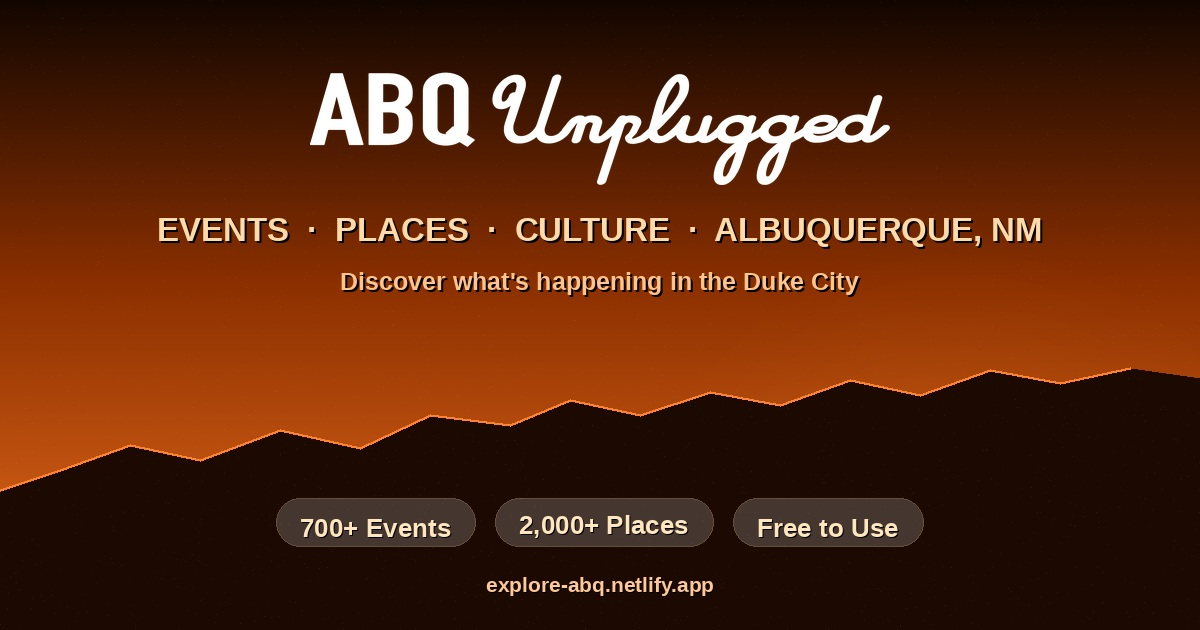
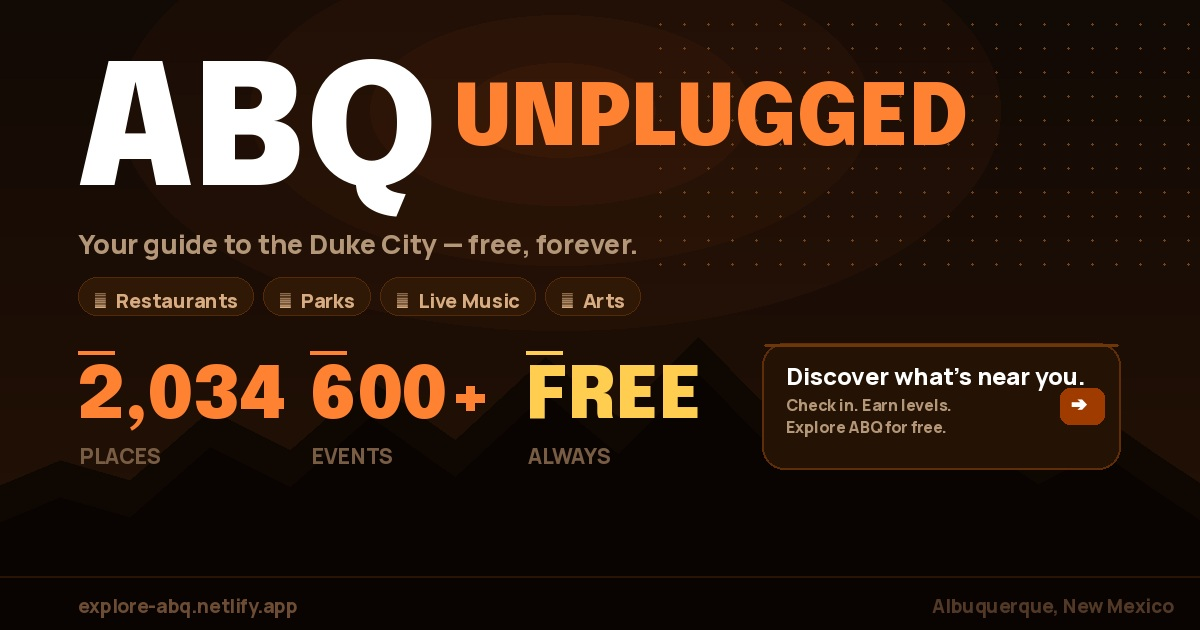
feat: new OG share image + updated stats in meta tags
- Redesigned og-image.jpg (1200×630): dark warm background, large ABQ UNPLUGGED
  title, category pills (Restaurants, Parks, Live Music, Arts, Bars), live stats
  (2,034 Places · 600+ Events · FREE), CTA card, Sandia mountain silhouette
- Updated og:description and twitter:description to accurate stats (600+ events,
  2,034 places)

diff --git a/index.html b/index.html
@@ -33,7 +33,7 @@
     <meta property="og:type"        content="website" />
     <meta property="og:url"         content="https://explore-abq.netlify.app/" />
     <meta property="og:title"       content="ABQ Unplugged — Events, Places &amp; Culture in Albuquerque" />
-    <meta property="og:description" content="Discover what's happening in the Duke City. 700+ events, 2,000+ places. Free." />
+    <meta property="og:description" content="Discover what's happening in the Duke City. 600+ events, 2,034 places. Free, forever." />
     <meta property="og:image"       content="https://explore-abq.netlify.app/og-image.jpg" />
     <meta property="og:image:width"  content="1200" />
     <meta property="og:image:height" content="630" />
@@ -44,7 +44,7 @@
     <!-- ─── Twitter / X card ─── -->
     <meta name="twitter:card"        content="summary_large_image" />
     <meta name="twitter:title"       content="ABQ Unplugged — Events &amp; Places in ABQ" />
-    <meta name="twitter:description" content="Discover what's happening in the Duke City. 700+ events, 2,000+ places." />
+    <meta name="twitter:description" content="Discover what's happening in the Duke City. 600+ events, 2,034 places. Free." />
     <meta name="twitter:image"       content="https://explore-abq.netlify.app/og-image.jpg" />
 
     <!-- ─── Favicon ─── -->
